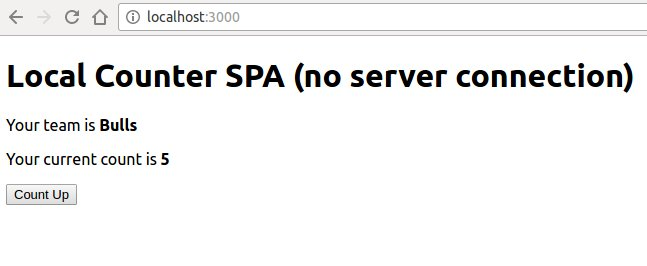
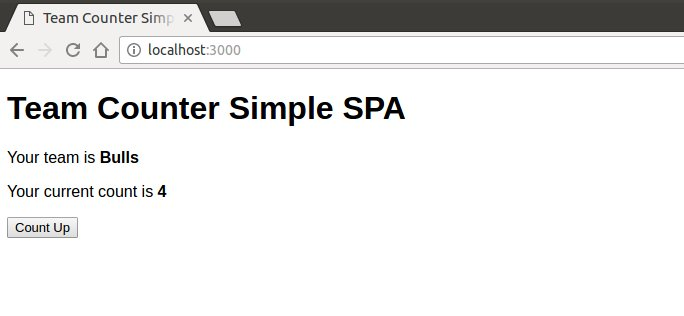
Enhance documentation and name

diff --git a/public/index.html b/public/index.html
@@ -134,7 +134,7 @@
 		</script>
 	</head>
 	<body>
-		<h1>Local Counter SPA (no server connection)</h1>
+		<h1>Team Counter Simple SPA</h1>
 		<div id="appContainer"></div>
 	</body>
 </html>

diff --git a/README.md b/README.md
@@ -24,5 +24,7 @@ This is of purpose of demo and the posibility to send it easy by mail.
 
 ```bash
 node server.js
+# or
+npm start
 ```
 Go to `http://localhost:3000`. You will be joined to a team. There are two teams and the server will join you to one of them.
